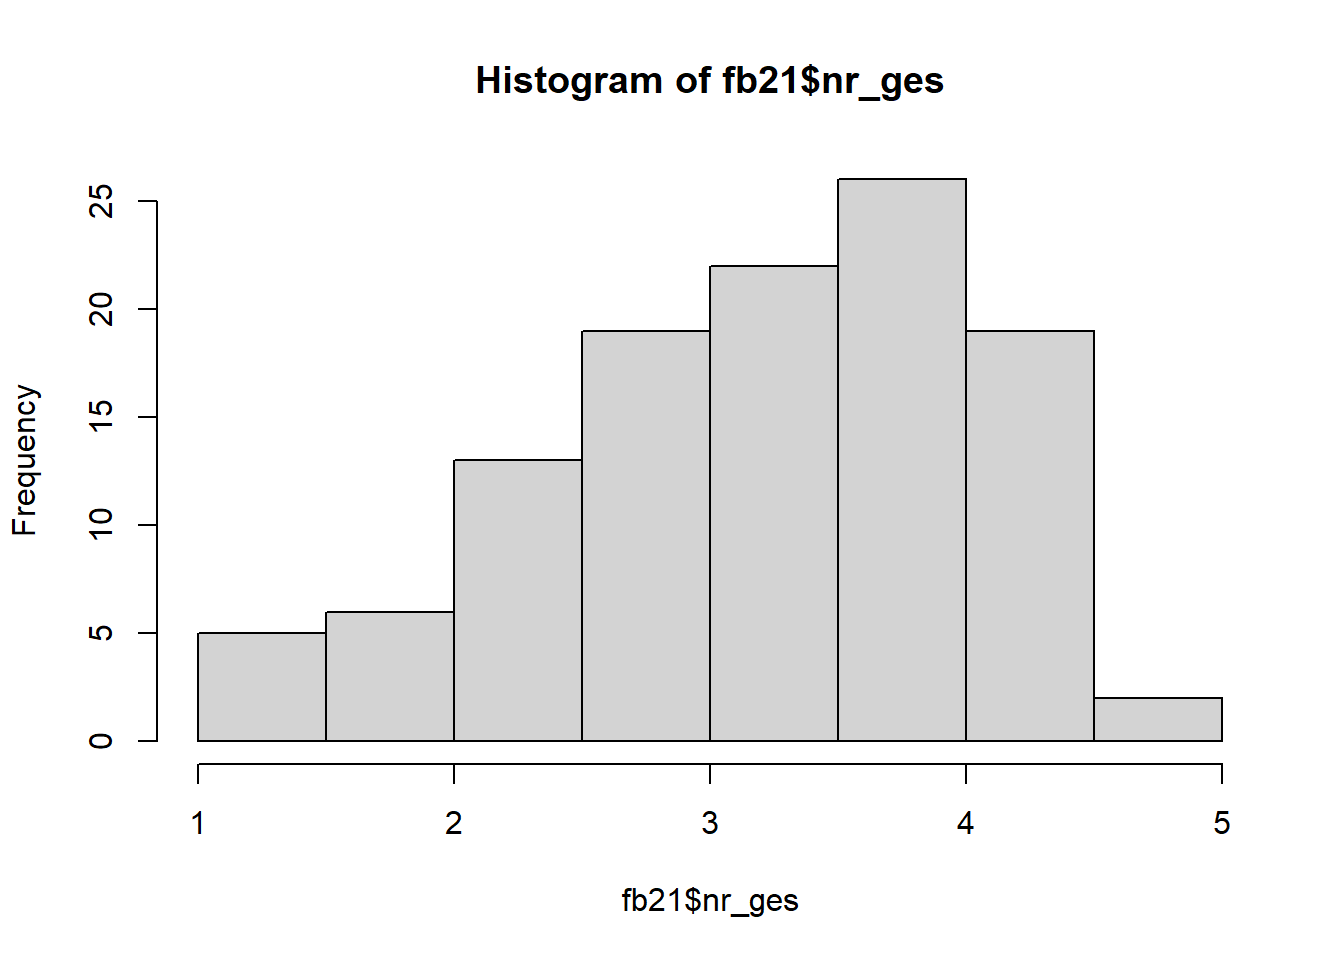
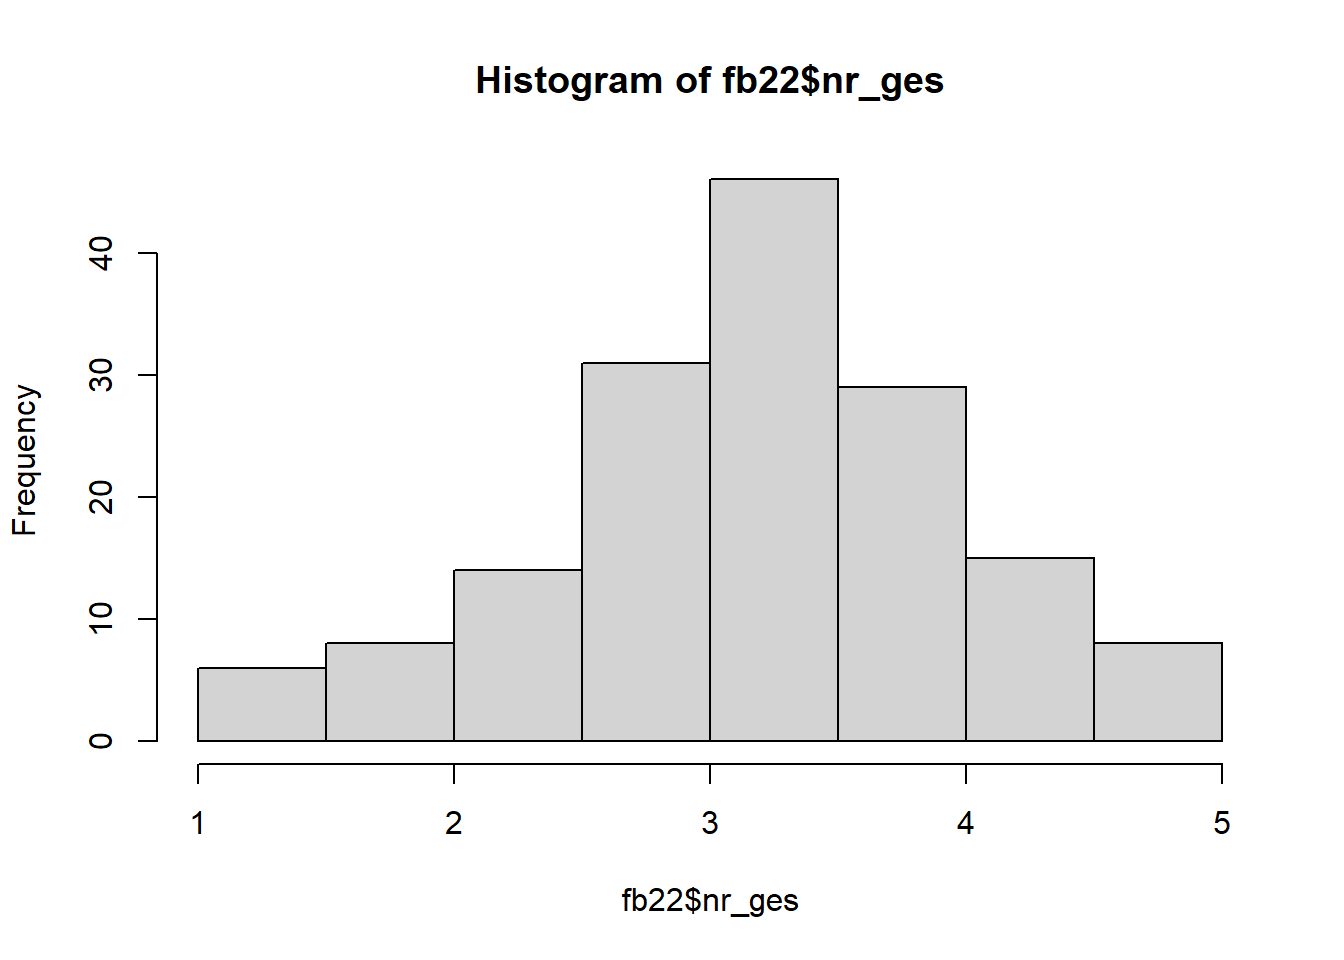
Update files until Verteilungen to 22 data set and set publication dates for soltions.

diff --git a/content/post/2021-09-21-deskriptivstatistik-fuer-intervallskalen-loesungen.html b/content/post/2021-09-21-deskriptivstatistik-fuer-intervallskalen-loesungen.html
@@ -10,14 +10,14 @@ tags:
 subtitle: ''
 summary: ''
 authors: [nehler, buchholz]
-lastmod: '2020-11-26T21:07:11+02:00'
+lastmod: '2022-10-31T21:07:11+02:00'
 featured: no
 header:
   image: "/header/descriptive_post.jpg"
   caption: "[Courtesy of pxhere](https://pxhere.com/en/photo/1227907)"
 projects: []
-expiryDate: '2022-09-15'
-publishDate: ''
+expiryDate: '2023-09-25'
+publishDate: '2022-11-18'
 ---
 
 <script src="/rmarkdown-libs/header-attrs/header-attrs.js"></script>
@@ -29,13 +29,13 @@ publishDate: ''
 <summary>
 Lösung
 </summary>
-<p>Laden Sie die Datensatz ein. Diesen haben Sie bereits aus <a href="/post/fb21.rda"><i class="fas fa-download"></i> <code>fb21.rda</code></a> heruntergeladen oder durch den unten aufgeführten direkten Befehl eingeladen. Die Bedeutung der einzelnen Variablen und ihre Antwortkategorien können Sie weiterhin dem Dokument <a href="/post/variablen.pdf">Variablenübersicht.pdf</a> entnehmen.</p>
-<pre class="r"><code>load(url(&#39;https://pandar.netlify.app/post/fb21.rda&#39;))</code></pre>
+<p>Laden Sie die Datensatz ein. Diesen haben Sie bereits aus <a href="/post/fb22.rda"><i class="fas fa-download"></i> <code>fb22.rda</code></a> heruntergeladen oder durch den unten aufgeführten direkten Befehl eingeladen. Die Bedeutung der einzelnen Variablen und ihre Antwortkategorien können Sie weiterhin dem Dokument <a href="/post/variablen.pdf">Variablenübersicht.pdf</a> entnehmen.</p>
+<pre class="r"><code>load(url(&#39;https://pandar.netlify.app/post/fb22.rda&#39;))</code></pre>
 </details>
 </div>
 <div id="aufgabe-1" class="section level2">
 <h2>Aufgabe 1</h2>
-<p>Erstellen Sie im Datensatz <code>fb21</code> die Skalenwerte für die Naturverbundenheit, die mit den Items nr1 bis nr6 gemessen wurde. Keines der Items ist invertiert.</p>
+<p>Erstellen Sie im Datensatz <code>fb22</code> die Skalenwerte für die Naturverbundenheit, die mit den Items nr1 bis nr6 gemessen wurde. Keines der Items ist invertiert.</p>
 <p>Erstellen Sie den Skalenwert als Mittelwert der sechs Items.</p>
 <details>
 <summary>
@@ -43,12 +43,12 @@ Lösung
 </summary>
 <pre class="r"><code># Skalenwert
 
-naturverbundenheit &lt;- fb21[, c(&#39;nr1&#39;, &#39;nr2&#39;, &#39;nr3&#39;, &#39;nr4&#39;, &#39;nr5&#39;,  &#39;nr6&#39;)]
-fb21$nr_ges &lt;- rowMeans(naturverbundenheit)</code></pre>
+naturverbundenheit &lt;- fb22[, c(&#39;nr1&#39;, &#39;nr2&#39;, &#39;nr3&#39;, &#39;nr4&#39;, &#39;nr5&#39;,  &#39;nr6&#39;)]
+fb22$nr_ges &lt;- rowMeans(naturverbundenheit)</code></pre>
 <p>Oder in einem Schritt mit der Pipe:</p>
 <pre class="r"><code># Skalenwert
 
-fb21$nr_ges &lt;-  fb21[, c(&#39;nr1&#39;, &#39;nr2&#39;, &#39;nr3&#39;, &#39;nr4&#39;, &#39;nr5&#39;,  &#39;nr6&#39;)] |&gt; rowMeans()</code></pre>
+fb22$nr_ges &lt;-  fb22[, c(&#39;nr1&#39;, &#39;nr2&#39;, &#39;nr3&#39;, &#39;nr4&#39;, &#39;nr5&#39;,  &#39;nr6&#39;)] |&gt; rowMeans()</code></pre>
 </details>
 </div>
 <div id="aufgabe-2" class="section level2">
@@ -63,13 +63,13 @@ fb21$nr_ges &lt;-  fb21[, c(&#39;nr1&#39;, &#39;nr2&#39;, &#39;nr3&#39;, &#39;nr
 Lösung
 </summary>
 <pre class="r"><code># Median und Mittelwert
-median(fb21$nr_ges, na.rm = TRUE)</code></pre>
+median(fb22$nr_ges, na.rm = TRUE)</code></pre>
 <pre><code>## [1] 3.333333</code></pre>
-<pre class="r"><code>mean(fb21$nr_ges, na.rm = TRUE)</code></pre>
-<pre><code>## [1] 3.239583</code></pre>
+<pre class="r"><code>mean(fb22$nr_ges, na.rm = TRUE)</code></pre>
+<pre><code>## [1] 3.254777</code></pre>
 <p>Der Median ist (geringfügig) größer als der Mittelwert, was auf eine (leicht) linksschiefe bzw. rechtssteile Verteilung schließen lässt.</p>
 <p><strong>Prüfen der Vermutung anhand eines Histogramms!</strong></p>
-<pre class="r"><code>hist(fb21$nr_ges) # Histogramm</code></pre>
+<pre class="r"><code>hist(fb22$nr_ges) # Histogramm</code></pre>
 <p><img src="/post/2021-09-21-deskriptivstatistik-fuer-intervallskalen-loesungen_files/figure-html/unnamed-chunk-5-1.png" width="672" /></p>
 <p>Die Verteilung ist tatsächlich (leicht) linksschief bzw. rechtssteil.</p>
 </details>
@@ -90,28 +90,28 @@ Lösung
 </li>
 <li>Schätzer der Populationsvarianz: <span class="math inline">\(\hat{\sigma}^2_{X} = \frac{\sum_{m=1}^n (x_m - \bar{x})^2}{n - 1}\)</span></li>
 </ul>
-<p>Zur Berechnung der Varianz gemäß Formel benötigen wir <span class="math inline">\(n\)</span>. Wir könnten mit <code>nrow(fb21)</code> die Länge des Datensatzes für <code>n</code> heranziehen. Dies ist jedoch nur dann sinnvoll, wenn auf der Variable <code>nr_ges</code> keine fehlenden Werte vorhanden sind!</p>
-<pre class="r"><code>is.na(fb21$nr_ges) |&gt; sum()</code></pre>
+<p>Zur Berechnung der Varianz gemäß Formel benötigen wir <span class="math inline">\(n\)</span>. Wir könnten mit <code>nrow(fb22)</code> die Länge des Datensatzes für <code>n</code> heranziehen. Dies ist jedoch nur dann sinnvoll, wenn auf der Variable <code>nr_ges</code> keine fehlenden Werte vorhanden sind!</p>
+<pre class="r"><code>is.na(fb22$nr_ges) |&gt; sum()</code></pre>
 <pre><code>## [1] 2</code></pre>
-<p>Hier gibt es tatäschlich wieder zwei fehlenden Werte. Im Tutorial haben wir aber bereits gelernt, dass man mit <code>length(na.omit(fb21$nr_ges))</code> die Anzahl an Personen bestimmen kann, die auf der Skala einen Wert haben.</p>
+<p>Hier gibt es tatäschlich wieder zwei fehlenden Werte. Im Tutorial haben wir aber bereits gelernt, dass man mit <code>length(na.omit(fb22$nr_ges))</code> die Anzahl an Personen bestimmen kann, die auf der Skala einen Wert haben.</p>
 <pre class="r"><code># empirische Varianz
 # per Hand
-sum((fb21$nr_ges - mean(fb21$nr_ges, na.rm = T))^2, na.rm = T) / (length(na.omit(fb21$nr_ges)))</code></pre>
-<pre><code>## [1] 0.6735026</code></pre>
+sum((fb22$nr_ges - mean(fb22$nr_ges, na.rm = T))^2, na.rm = T) / (length(na.omit(fb22$nr_ges)))</code></pre>
+<pre><code>## [1] 0.6597879</code></pre>
 <pre class="r"><code># durch Umrechnung 
-var(fb21$nr_ges, na.rm = T) * (length(na.omit(fb21$nr_ges))-1) / length(na.omit(fb21$nr_ges))</code></pre>
-<pre><code>## [1] 0.6735026</code></pre>
+var(fb22$nr_ges, na.rm = T) * (length(na.omit(fb22$nr_ges))-1) / length(na.omit(fb22$nr_ges))</code></pre>
+<pre><code>## [1] 0.6597879</code></pre>
 <pre class="r"><code># Populationsschätzer
-var(fb21$nr_ges, na.rm = T)</code></pre>
-<pre><code>## [1] 0.6795702</code></pre>
+var(fb22$nr_ges, na.rm = T)</code></pre>
+<pre><code>## [1] 0.6640173</code></pre>
 <p>Die empirische Varianz ist kleiner als der Populationsschätzer.</p>
 <p>Nun fehlt noch die Betrachtung der Standardabweichung. Als einfachste Möglichkeit für die Berechnung der empirischen Standardabweichung haben wir gelernt, dass man die Wurzel aus der empirischen Varianz ziehen kann.</p>
 <pre class="r"><code># empirische Standardabweichung
-(sum((fb21$nr_ges - mean(fb21$nr_ges, na.rm = T))^2, na.rm = T) / length(na.omit(fb21$nr_ges))) |&gt; sqrt()</code></pre>
-<pre><code>## [1] 0.820672</code></pre>
+(sum((fb22$nr_ges - mean(fb22$nr_ges, na.rm = T))^2, na.rm = T) / length(na.omit(fb22$nr_ges))) |&gt; sqrt()</code></pre>
+<pre><code>## [1] 0.8122733</code></pre>
 <pre class="r"><code># Populationsschätzer
-sd(fb21$nr_ges, na.rm = T)</code></pre>
-<pre><code>## [1] 0.8243605</code></pre>
+sd(fb22$nr_ges, na.rm = T)</code></pre>
+<pre><code>## [1] 0.8148726</code></pre>
 <p>Auch hier ist der empirische Wert kleiner als der Schätzer.</p>
 </details>
 </div>
@@ -131,17 +131,17 @@ Lösung
 <pre class="r"><code>par(mfrow=c(1,2))
 
 # z-Standardisierung
-fb21$nr_ges_z &lt;- scale(fb21$nr_ges)
+fb22$nr_ges_z &lt;- scale(fb22$nr_ges)
 
 # Histogramme
-hist(fb21$nr_ges_z)
-hist(fb21$nr_ges)</code></pre>
+hist(fb22$nr_ges_z)
+hist(fb22$nr_ges)</code></pre>
 <p><img src="/post/2021-09-21-deskriptivstatistik-fuer-intervallskalen-loesungen_files/figure-html/unnamed-chunk-9-1.png" width="672" /></p>
 <p>Beim Vergleich der beiden Histogrammen fällt auf, dass sich - aufgrund der R-Voreinstellungen - das Erscheinungsbild fälschlicherweise unterscheidet - eigentlich sollte sich durch die z-Transformation nur Skalierung der x-Achsen-Variable verändern. Tatsächlich aber bestimmt R hier eine unterschiedliche Anzahl von Kategorien. Wir erhalten eine konstantere Darstellung durch das <code>breaks</code>-Argument:</p>
 <pre class="r"><code># Histogramme mit jeweils 20 Breaks
 par(mfrow=c(1,2))
-hist(fb21$nr_ges_z, breaks = 20)
-hist(fb21$nr_ges, breaks = 20)</code></pre>
+hist(fb22$nr_ges_z, breaks = 20)
+hist(fb22$nr_ges, breaks = 20)</code></pre>
 <p><img src="/post/2021-09-21-deskriptivstatistik-fuer-intervallskalen-loesungen_files/figure-html/unnamed-chunk-10-1.png" width="672" /></p>
 <p>Die Verteilungen sehen nun tatächlich (fast) gleich aus. Da die Breaks ein weicher Befehl sind, ist die komplette Gleichheit aber dennoch nicht gegeben.</p>
 </details>

diff --git a/content/post/2021-09-21-deskriptivstatistik-fuer-intervallskalen-aufgaben.html b/content/post/2021-09-21-deskriptivstatistik-fuer-intervallskalen-aufgaben.html
@@ -10,7 +10,7 @@ tags:
 subtitle: ''
 summary: ''
 authors: [nehler, buchholz]
-lastmod: '2020-09-24T21:07:11+02:00'
+lastmod: '2022-10-31T21:07:11+02:00'
 featured: no
 header:
   image: "/header/descriptive_post.jpg"
@@ -24,12 +24,12 @@ projects: []
 <div id="vorbereitung" class="section level3">
 <h3>Vorbereitung</h3>
 <blockquote>
-<p>Laden Sie die Datensatz ein. Diesen haben Sie bereits aus <a href="/post/fb21.rda"><i class="fas fa-download"></i> <code>fb21.rda</code></a> heruntergeladen. Die Bedeutung der einzelnen Variablen und ihre Antwortkategorien können Sie weiterhin dem Dokument <a href="/post/variablen.pdf">Variablenübersicht.pdf</a> entnehmen.</p>
+<p>Laden Sie die Datensatz ein. Diesen haben Sie bereits aus <a href="/post/fb22.rda"><i class="fas fa-download"></i> <code>fb22.rda</code></a> heruntergeladen. Die Bedeutung der einzelnen Variablen und ihre Antwortkategorien können Sie weiterhin dem Dokument <a href="/post/variablen.pdf">Variablenübersicht.pdf</a> entnehmen.</p>
 </blockquote>
 </div>
 <div id="aufgabe-1" class="section level2">
 <h2>Aufgabe 1</h2>
-<p>Erstellen Sie im Datensatz <code>fb21</code> die Skalenwerte für die Naturverbundenheit, die mit den Items nr1 bis nr6 gemessen wurde. Keines der Items ist invertiert.</p>
+<p>Erstellen Sie im Datensatz <code>fb22</code> die Skalenwerte für die Naturverbundenheit, die mit den Items nr1 bis nr6 gemessen wurde. Keines der Items ist invertiert.</p>
 <ul>
 <li>Erstellen Sie den Skalenwert als Mittelwert der sechs Items.</li>
 </ul>

diff --git a/content/post/2020-11-16-verteilungen-loesungen.html b/content/post/2020-11-16-verteilungen-loesungen.html
@@ -11,7 +11,7 @@ tags:
 subtitle: ''
 summary: ''
 authors: [nehler]
-lastmod: '2020-11-16T18:41:43+01:00'
+lastmod: '2022-10-31T18:41:43+01:00'
 featured: no
 image:
   caption: ''
@@ -21,8 +21,8 @@ header:
   image: "/header/PsyBSc2_verteilungen.png"
   caption: "[Courtesy of pxhere](https://pxhere.com/en/photo/1087694)"
 projects: []
-expiryDate: '2022-09-15'
-publishDate: '2021-11-26'
+expiryDate: '2023-09-25'
+publishDate: '2022-11-25'
 
 ---
 

diff --git a/content/post/2021-09-21-deskriptivstatistik-fuer-nominal-und-ordinalskalen-loesungen.html b/content/post/2021-09-21-deskriptivstatistik-fuer-nominal-und-ordinalskalen-loesungen.html
@@ -16,8 +16,8 @@ header:
   image: "/header/descriptive_post.jpg"
   caption: "[Courtesy of pxhere](https://pxhere.com/en/photo/1227907)"
 projects: []
-expiryDate: '2022-09-15'
-publishDate: '2021-11-12'
+expiryDate: '2023-09-25'
+publishDate: '2022-11-11'
 ---
 
 <script src="/rmarkdown-libs/header-attrs/header-attrs.js"></script>
